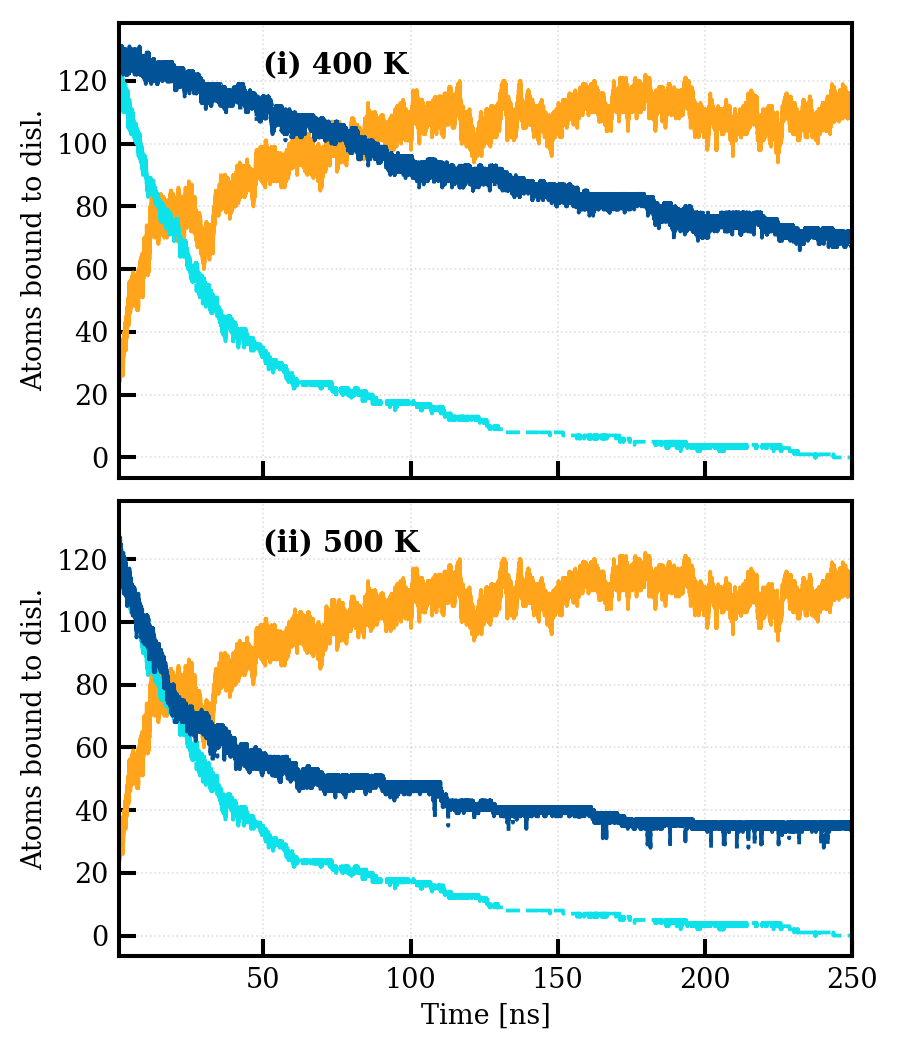
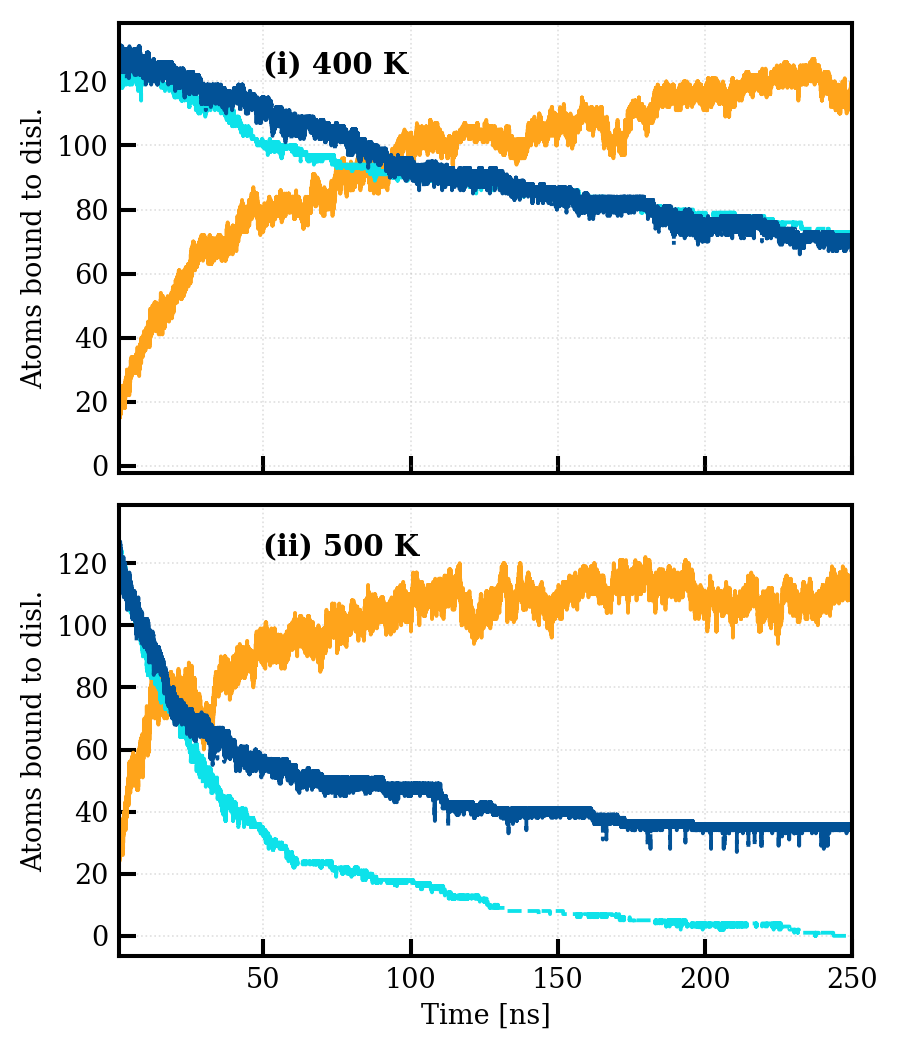
update plotting scripts

diff --git a/plotting-scripts/plot_disloc_isoEx_comp.py b/plotting-scripts/plot_disloc_isoEx_comp.py
@@ -19,7 +19,7 @@ def readData(fname, columnsToRead):
     return np.array(data)
 
 # HinVac.out format: Timestep NTinVac NHinVac NTinCell
-tTH_isoEx_400K = readData(path+'disloc_isoEx_500K_250ns/HinDisl.out', [0,1,2])
+tTH_isoEx_400K = readData(path+'disloc_isoEx_400K_250ns/HinDisl.out', [0,1,2])
 tT_diff_400K = readData(path+'disloc_isoEx_400K_0H_250ns/HinDisl.out', [0,1])
 tTH_isoEx_500K = readData(path+'disloc_isoEx_500K_250ns/HinDisl.out', [0,1,2])
 tT_diff_500K = readData(path+'disloc_isoEx_500K_0H_250ns/HinDisl.out', [0,1])
